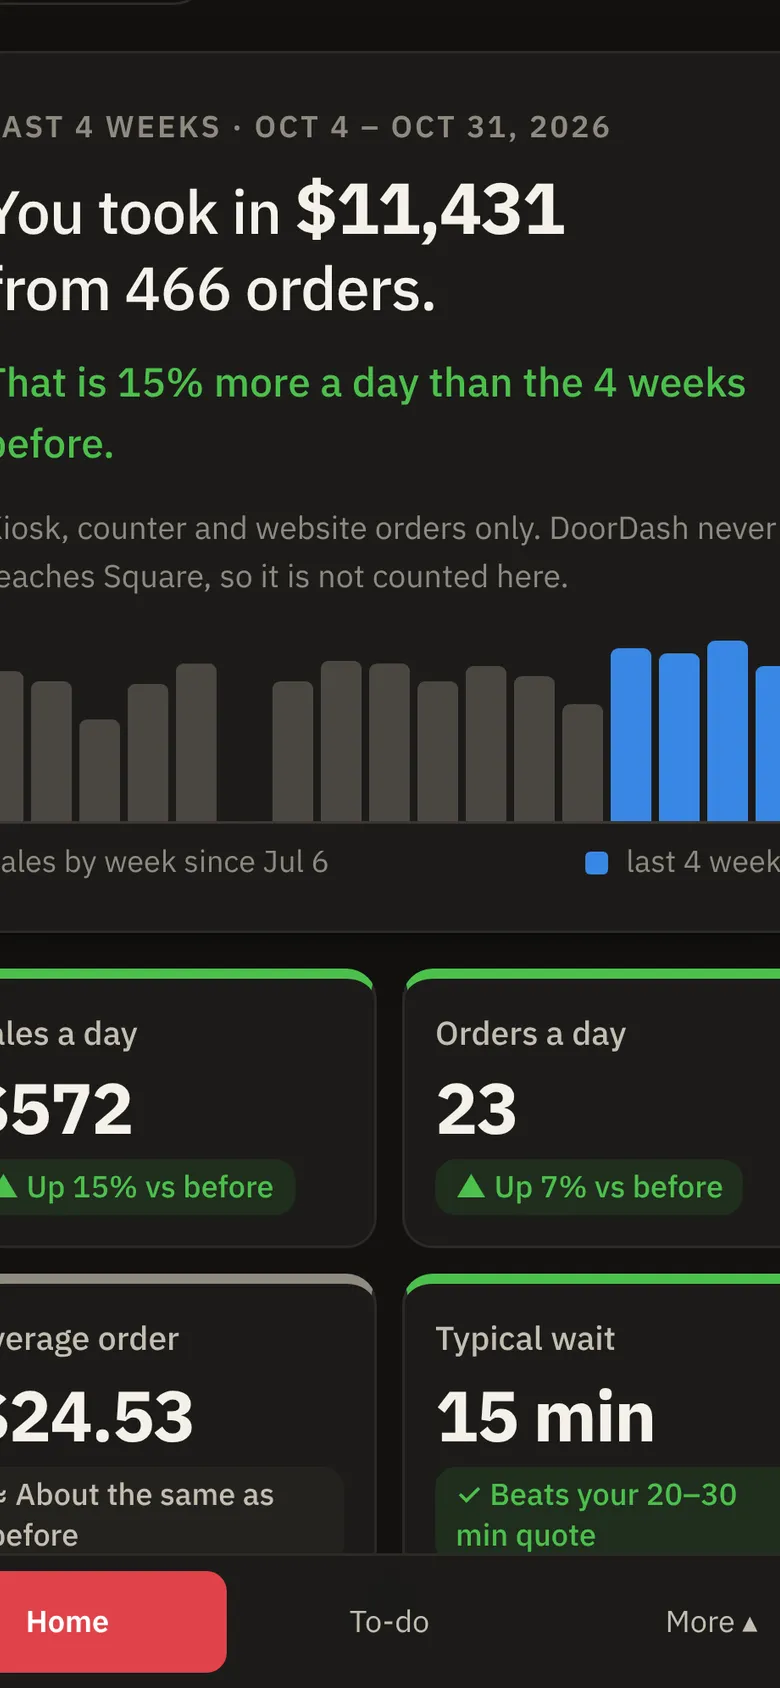
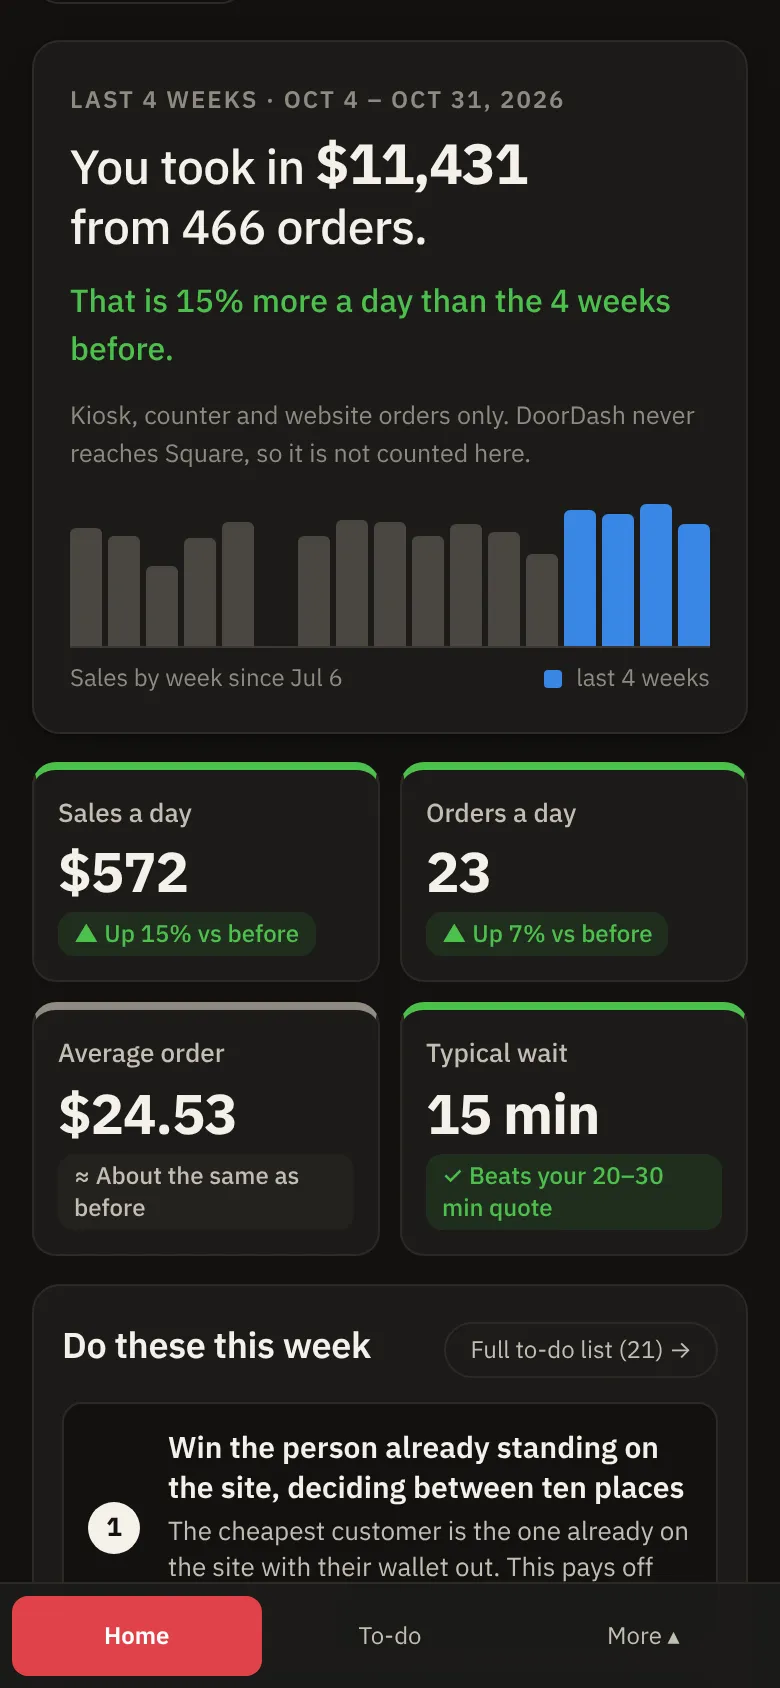
Paper Crane Insights: whole phone screenshots, no text selection on phones
The two phone shots were taken in a 664px-tall viewport and then cropped
to 780x1688, which cut their sides off in the phone frame. Retaken at
390x844 (2x), so the frame shows the whole screen. The demo is rebuilt so a
long press on a phone scrolls or drags instead of selecting text.

Claude-Session: https://claude.ai/code/session_01P3JxyrxqmMhjk4igVGE13J

Changed region(s): [[0.0, 0.2773, 1.0, 1.0], [0.0, 0.0308, 0.9538, 0.2773]]

diff --git a/public/demo/paper-crane-insights/index.html b/public/demo/paper-crane-insights/index.html
@@ -3338,6 +3338,29 @@ section.block.fold {
     display: none;
   }
 }
+
+
+
+html {
+  -webkit-tap-highlight-color: transparent;
+}
+
+@media (hover: none) and (pointer: coarse) {
+  body {
+    -webkit-user-select: none;
+    user-select: none;
+    -webkit-touch-callout: none;
+  }
+
+  input,
+  textarea,
+  select,
+  [contenteditable="true"] {
+    -webkit-user-select: text;
+    user-select: text;
+    -webkit-touch-callout: default;
+  }
+}
 </style>
 </head>
 <body>
